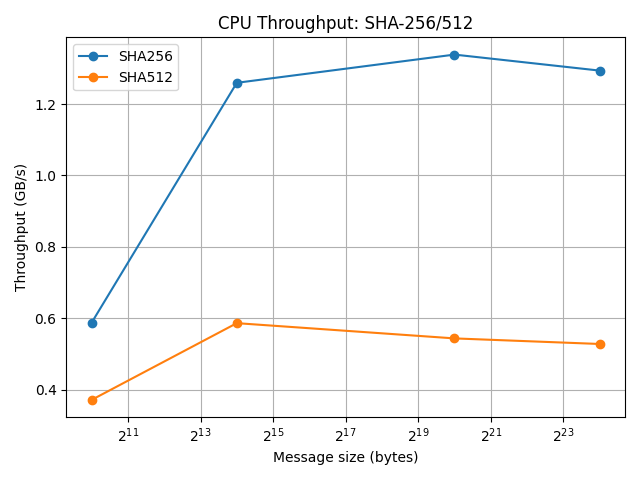
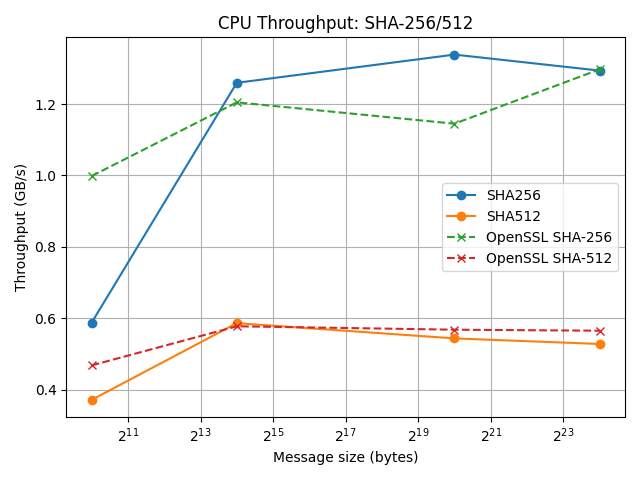
Added OpenSSL SHA runner + plot update

diff --git a/src/cpu/openssl_speed_runner.py b/src/cpu/openssl_speed_runner.py
@@ -1,0 +1,72 @@
+#!/usr/bin/env python3
+# Runs: openssl speed -elapsed -bytes <size> -evp <algo>
+# Writes: data/raw/openssl_evp.csv  (algo,size_bytes,throughput_Bps,openssl_version,ts)
+
+import argparse, csv, datetime as dt, re, subprocess
+from pathlib import Path
+
+DEFAULT_ALGOS = ["sha256", "sha512", "aes-128-ctr"]
+DEFAULT_SIZES = [1024, 16384, 1<<20, 1<<24]  # 1 KiB, 16 KiB, 1 MiB, 16 MiB
+
+def run(cmd: str) -> str:
+    p = subprocess.run(cmd, shell=True, text=True, capture_output=True)
+    if p.returncode != 0:
+        raise RuntimeError(f"Command failed: {cmd}\n{p.stderr}")
+    return p.stdout
+
+def openssl_version() -> str:
+    try: return run("openssl version").strip()
+    except: return "unknown"
+
+def parse_throughput_k_or_m(text: str, label: str) -> float:
+    """
+    Parse a line like: 'sha256  123456.78k' → bytes/sec
+    We search only the tail of output to avoid banners.
+    """
+    tail = "\n".join(text.splitlines()[-40:])
+    m = re.search(rf"^\s*{re.escape(label)}\s+([0-9]+(?:\.[0-9]+)?)([kKmM]?)",
+                  tail, flags=re.MULTILINE)
+    if not m:
+        raise ValueError(f"Couldn't parse throughput for {label}.\nOutput tail:\n{tail}")
+    val = float(m.group(1))
+    suf = m.group(2).lower()
+    if suf == "k": val *= 1_000.0
+    elif suf == "m": val *= 1_000_000.0
+    return val  # bytes/sec
+
+def bench(algo: str, size: int, seconds: int) -> float:
+    out = run(f"openssl speed -elapsed -seconds {seconds} -bytes {size} -evp {algo}")
+    return parse_throughput_k_or_m(out, algo)
+
+def main():
+    ap = argparse.ArgumentParser()
+    ap.add_argument("--algos", nargs="*", default=DEFAULT_ALGOS)
+    ap.add_argument("--sizes", nargs="*", type=int, default=DEFAULT_SIZES)
+    ap.add_argument("--seconds", type=int, default=3)
+    ap.add_argument("--out", default="data/raw/openssl_evp.csv")
+    args = ap.parse_args()
+
+    Path("data/raw").mkdir(parents=True, exist_ok=True)
+    ver = openssl_version()
+    ts  = int(dt.datetime.utcnow().timestamp())
+
+    rows = []
+    for algo in args.algos:
+        for sz in args.sizes:
+            try:
+                bps = bench(algo, sz, args.seconds)
+                rows.append({"algo": algo, "size_bytes": sz,
+                             "throughput_Bps": bps,
+                             "openssl_version": ver, "ts": ts})
+                print(f"{algo:12} size={sz:8} -> {bps/1e9:.3f} GB/s")
+            except Exception as e:
+                print(f"[WARN] {algo} size={sz}: {e}")
+
+    if rows:
+        with open(args.out, "w", newline="") as f:
+            w = csv.DictWriter(f, fieldnames=["algo","size_bytes","throughput_Bps","openssl_version","ts"])
+            w.writeheader(); w.writerows(rows)
+        print(f"Wrote {args.out} ({len(rows)} rows)")
+
+if __name__ == "__main__":
+    main()

diff --git a/scripts/plot_cpu_baselines.py b/scripts/plot_cpu_baselines.py
@@ -7,11 +7,23 @@ Path("plots").mkdir(exist_ok=True)
 aes = pd.read_csv("data/raw/cpu_aes_ctr.csv")
 sha = pd.read_csv("data/raw/cpu_sha.csv")
 
+# Load OpenSSL results if present
+evp_path = Path("data/raw/openssl_evp.csv")
+evp = pd.read_csv(evp_path) if evp_path.exists() else None
+
 # AES-CTR throughput vs size
 plt.figure()
 x = aes["size_bytes"].values
 y = aes["throughput_Bps"].values / 1e9
 plt.plot(x, y, marker="o", label="AES-CTR (CPU)")
+
+# OpenSSL AES overlay
+if evp is not None and "aes-128-ctr" in evp["algo"].unique():
+    sub = evp[evp["algo"] == "aes-128-ctr"].sort_values("size_bytes")
+    plt.plot(sub["size_bytes"], sub["throughput_Bps"]/1e9,
+             marker="x", linestyle="--", label="OpenSSL AES-128-CTR")
+    
+
 plt.xscale("log", base=2)
 plt.xlabel("Message size (bytes)")
 plt.ylabel("Throughput (GB/s)")
@@ -26,6 +38,15 @@ plt.figure()
 for algo in sha["algo"].unique():
     sub = sha[sha["algo"] == algo]
     plt.plot(sub["size_bytes"], sub["throughput_Bps"]/1e9, marker="o", label=algo)
+    
+# OpenSSL SHA overlays
+if evp is not None:
+    for a, label in [("sha256","OpenSSL SHA-256"), ("sha512","OpenSSL SHA-512")]:
+        if a in evp["algo"].unique():
+            sub = evp[evp["algo"] == a].sort_values("size_bytes")
+            plt.plot(sub["size_bytes"], sub["throughput_Bps"]/1e9,
+                     marker="x", linestyle="--", label=label)
+
 plt.xscale("log", base=2)
 plt.xlabel("Message size (bytes)")
 plt.ylabel("Throughput (GB/s)")

diff --git a/src/common/verify.py b/src/common/verify.py
@@ -1,6 +1,9 @@
 from Crypto.Cipher import AES
 from Crypto.Hash import SHA256, SHA512
 
+# This ensures that everything is correct before setting any benchmarks
+
+# Sets a fixed 128-bit key with 8-bit nonce and encrypts a known 16-byte plaintext, then compares
 def verify_aes_ctr():
     key   = bytes.fromhex("2b7e151628aed2a6abf7158809cf4f3c")  # 128-bit
     nonce = bytes.fromhex("f0f1f2f3f4f5f6f7")                    # 8 bytes (CTR: nonce_len+counter_len=16)

diff --git a/src/cpu/sha_cpu.py b/src/cpu/sha_cpu.py
@@ -1,5 +1,14 @@
 import hashlib, os, time, csv, pathlib
 
+# Measure throughput for SHA256 and SHA512 on the CPU by message size
+# For each size and algorithm:
+# - Create a random buffer
+# - Warm-up with one digest
+# - Time in the loop: create a new hash object, update with the full buffer, call .digest()
+# Then compute throughput in bytes/sec
+
+# SHA-512 is typically expected to run 
+
 SIZES = [1024, 16384, 1<<20, 1<<24]
 ITERS = 64
 
